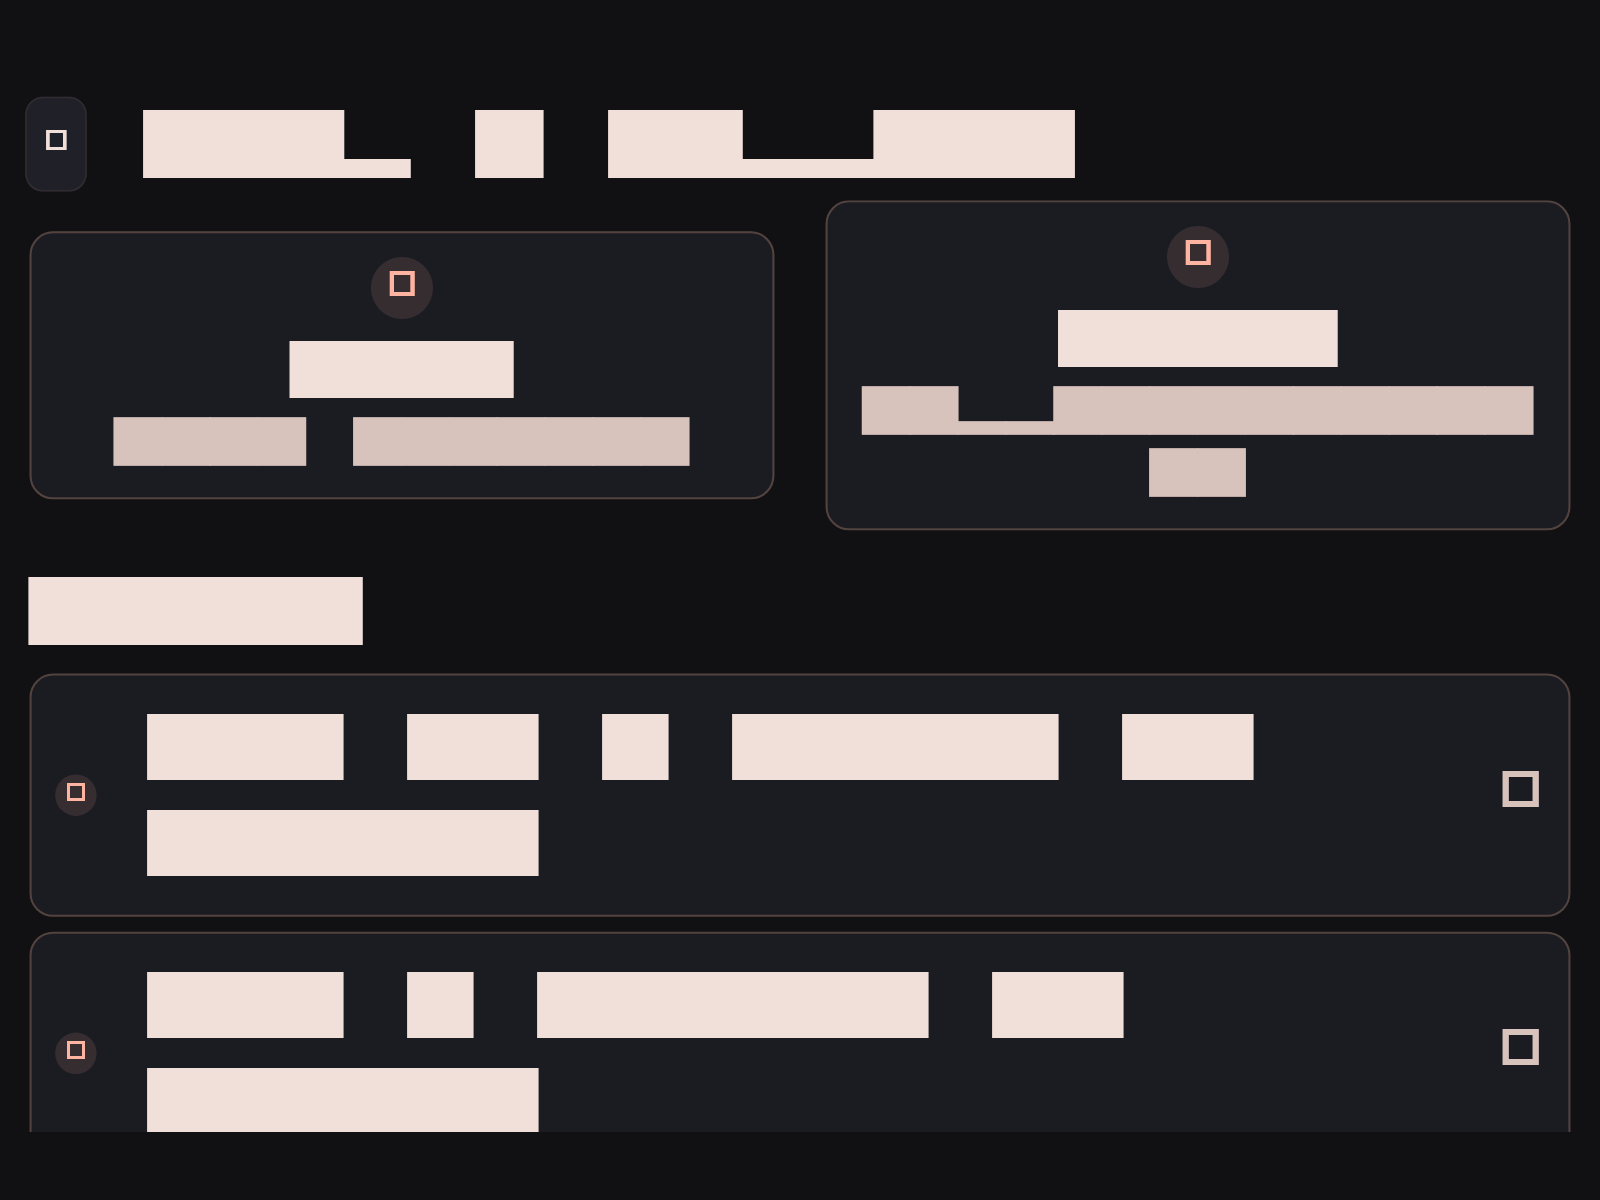
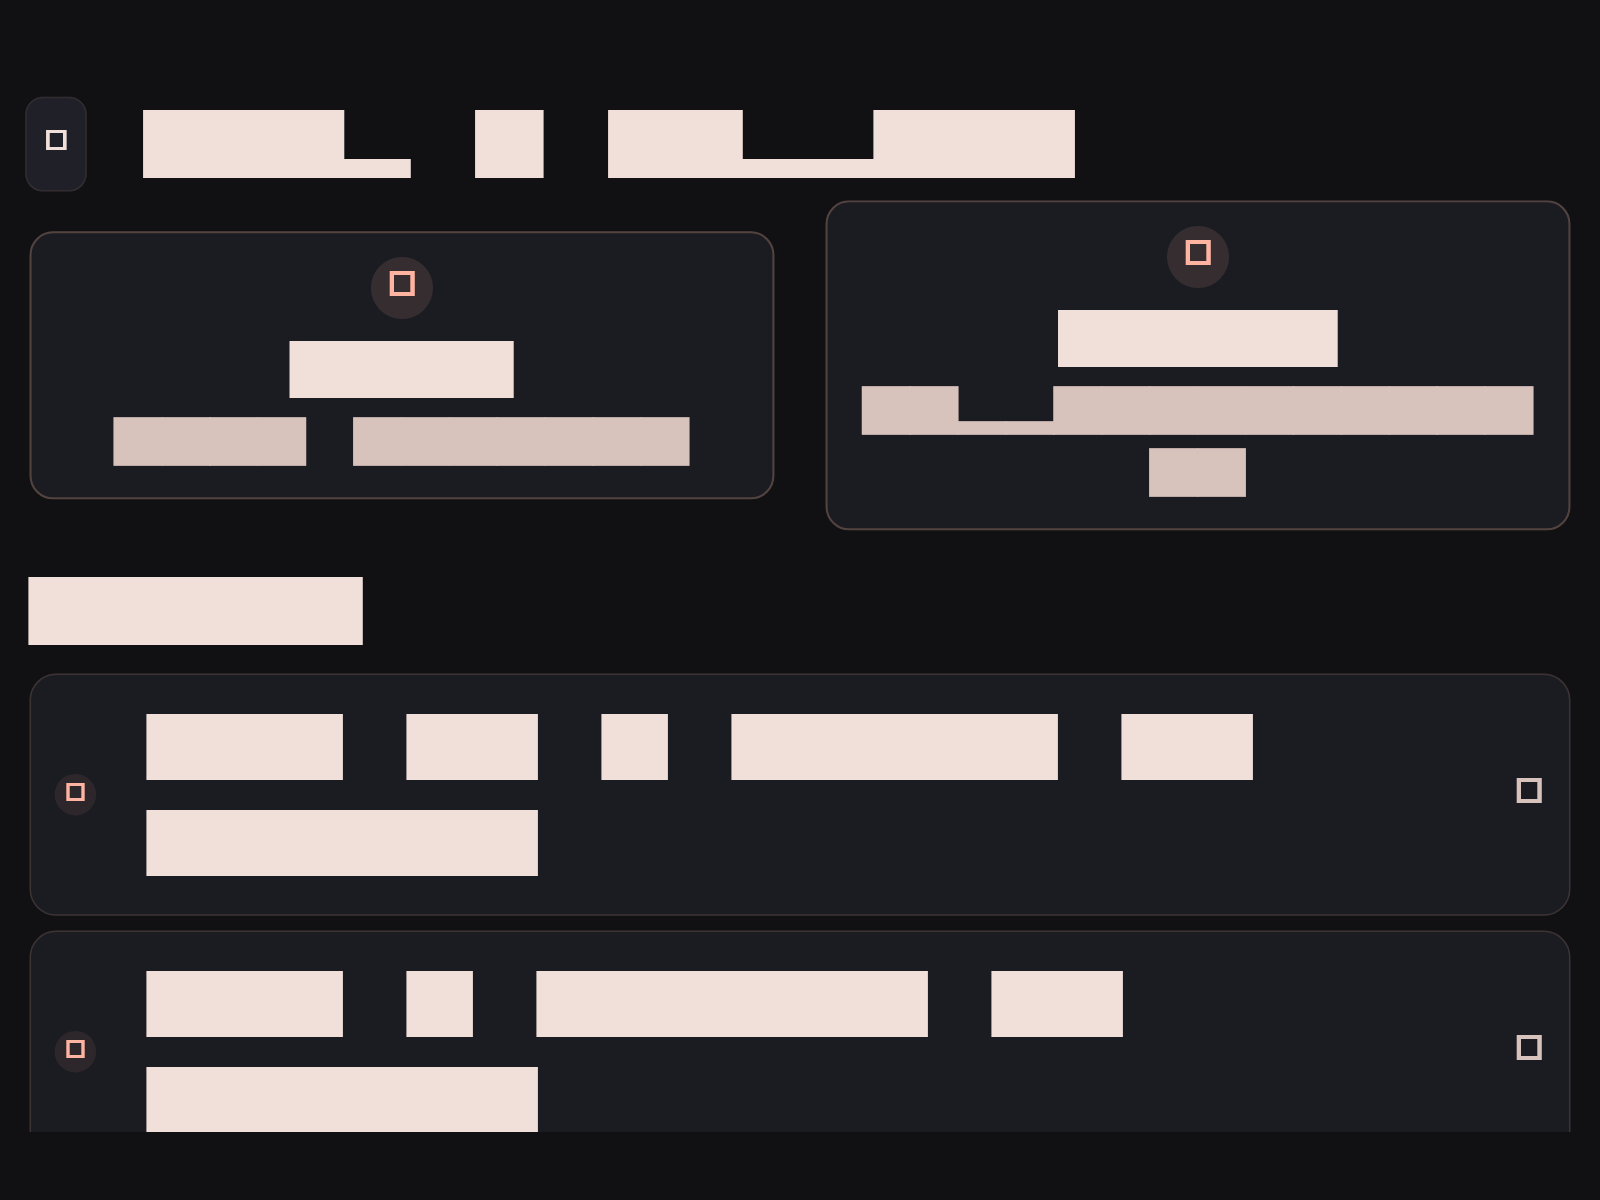
feat(faq): add smooth animated accordion crossfade and rotating chevron to FAQ tiles

Changed region(s): [[0.9375, 0.8325, 0.9688, 0.8942], [0.9375, 0.6167, 0.9688, 0.6783]]

diff --git a/lib/features/faq/widgets/faq_tile.dart b/lib/features/faq/widgets/faq_tile.dart
@@ -24,14 +24,26 @@ class _FaqTileState extends State<FaqTile> {
     return Container(
       decoration: BoxDecoration(
         color: colors.surfaceContainerLow,
-        borderRadius: BorderRadius.circular(16).r,
-        border: Border.all(color: colors.outlineVariant, width: 1),
+        borderRadius: BorderRadius.circular(18).r,
+        border: Border.all(
+          color: _isExpanded
+              ? colors.primary.withValues(alpha: 0.35)
+              : colors.outlineVariant.withValues(alpha: 0.6),
+          width: 1.r,
+        ),
+        boxShadow: [
+          BoxShadow(
+            color: Colors.black.withValues(alpha: _isExpanded ? 0.05 : 0.02),
+            blurRadius: 8.r,
+            offset: Offset(0, 2.h),
+          ),
+        ],
       ),
       child: Material(
         color: Colors.transparent,
         child: InkWell(
           onTap: () => setState(() => _isExpanded = !_isExpanded),
-          borderRadius: BorderRadius.circular(16).r,
+          borderRadius: BorderRadius.circular(18).r,
           child: Padding(
             padding: const EdgeInsets.all(16).r,
             child: Column(
@@ -42,7 +54,9 @@ class _FaqTileState extends State<FaqTile> {
                     Container(
                       padding: const EdgeInsets.all(6).r,
                       decoration: BoxDecoration(
-                        color: colors.primary.withValues(alpha: 0.12),
+                        color: _isExpanded
+                            ? colors.primary.withValues(alpha: 0.15)
+                            : colors.primary.withValues(alpha: 0.08),
                         shape: BoxShape.circle,
                       ),
                       child: Icon(
@@ -57,28 +71,51 @@ class _FaqTileState extends State<FaqTile> {
                         widget.question,
                         style: AppTextStyles.bodyLarge(
                           context,
-                        ).copyWith(fontWeight: FontWeight.w600),
+                        ).copyWith(fontWeight: FontWeight.w700),
                       ),
                     ),
-                    Icon(
-                      _isExpanded
-                          ? Icons.keyboard_arrow_up_rounded
-                          : Icons.keyboard_arrow_down_rounded,
-                      color: colors.onSurfaceVariant,
+                    AnimatedRotation(
+                      turns: _isExpanded ? 0.5 : 0.0,
+                      duration: const Duration(milliseconds: 220),
+                      curve: Curves.easeOutCubic,
+                      child: Icon(
+                        Icons.keyboard_arrow_down_rounded,
+                        color: _isExpanded
+                            ? colors.primary
+                            : colors.onSurfaceVariant,
+                        size: 22.r,
+                      ),
                     ),
                   ],
                 ),
-                if (_isExpanded) ...[
-                  12.verticalSpace,
-                  Divider(color: colors.outlineVariant, height: 1),
-                  12.verticalSpace,
-                  AppText(
-                    widget.answer,
-                    style: AppTextStyles.bodyMedium(
-                      context,
-                    ).copyWith(color: colors.onSurfaceVariant),
+                AnimatedCrossFade(
+                  firstChild: const SizedBox(width: double.infinity),
+                  secondChild: Column(
+                    crossAxisAlignment: CrossAxisAlignment.start,
+                    children: [
+                      12.verticalSpace,
+                      Divider(
+                        color: colors.outlineVariant.withValues(alpha: 0.5),
+                        height: 1,
+                      ),
+                      12.verticalSpace,
+                      AppText(
+                        widget.answer,
+                        style: AppTextStyles.bodyMedium(
+                          context,
+                        ).copyWith(
+                          color: colors.onSurfaceVariant,
+                          height: 1.45,
+                        ),
+                      ),
+                    ],
                   ),
-                ],
+                  crossFadeState: _isExpanded
+                      ? CrossFadeState.showSecond
+                      : CrossFadeState.showFirst,
+                  duration: const Duration(milliseconds: 220),
+                  sizeCurve: Curves.easeOutCubic,
+                ),
               ],
             ),
           ),
